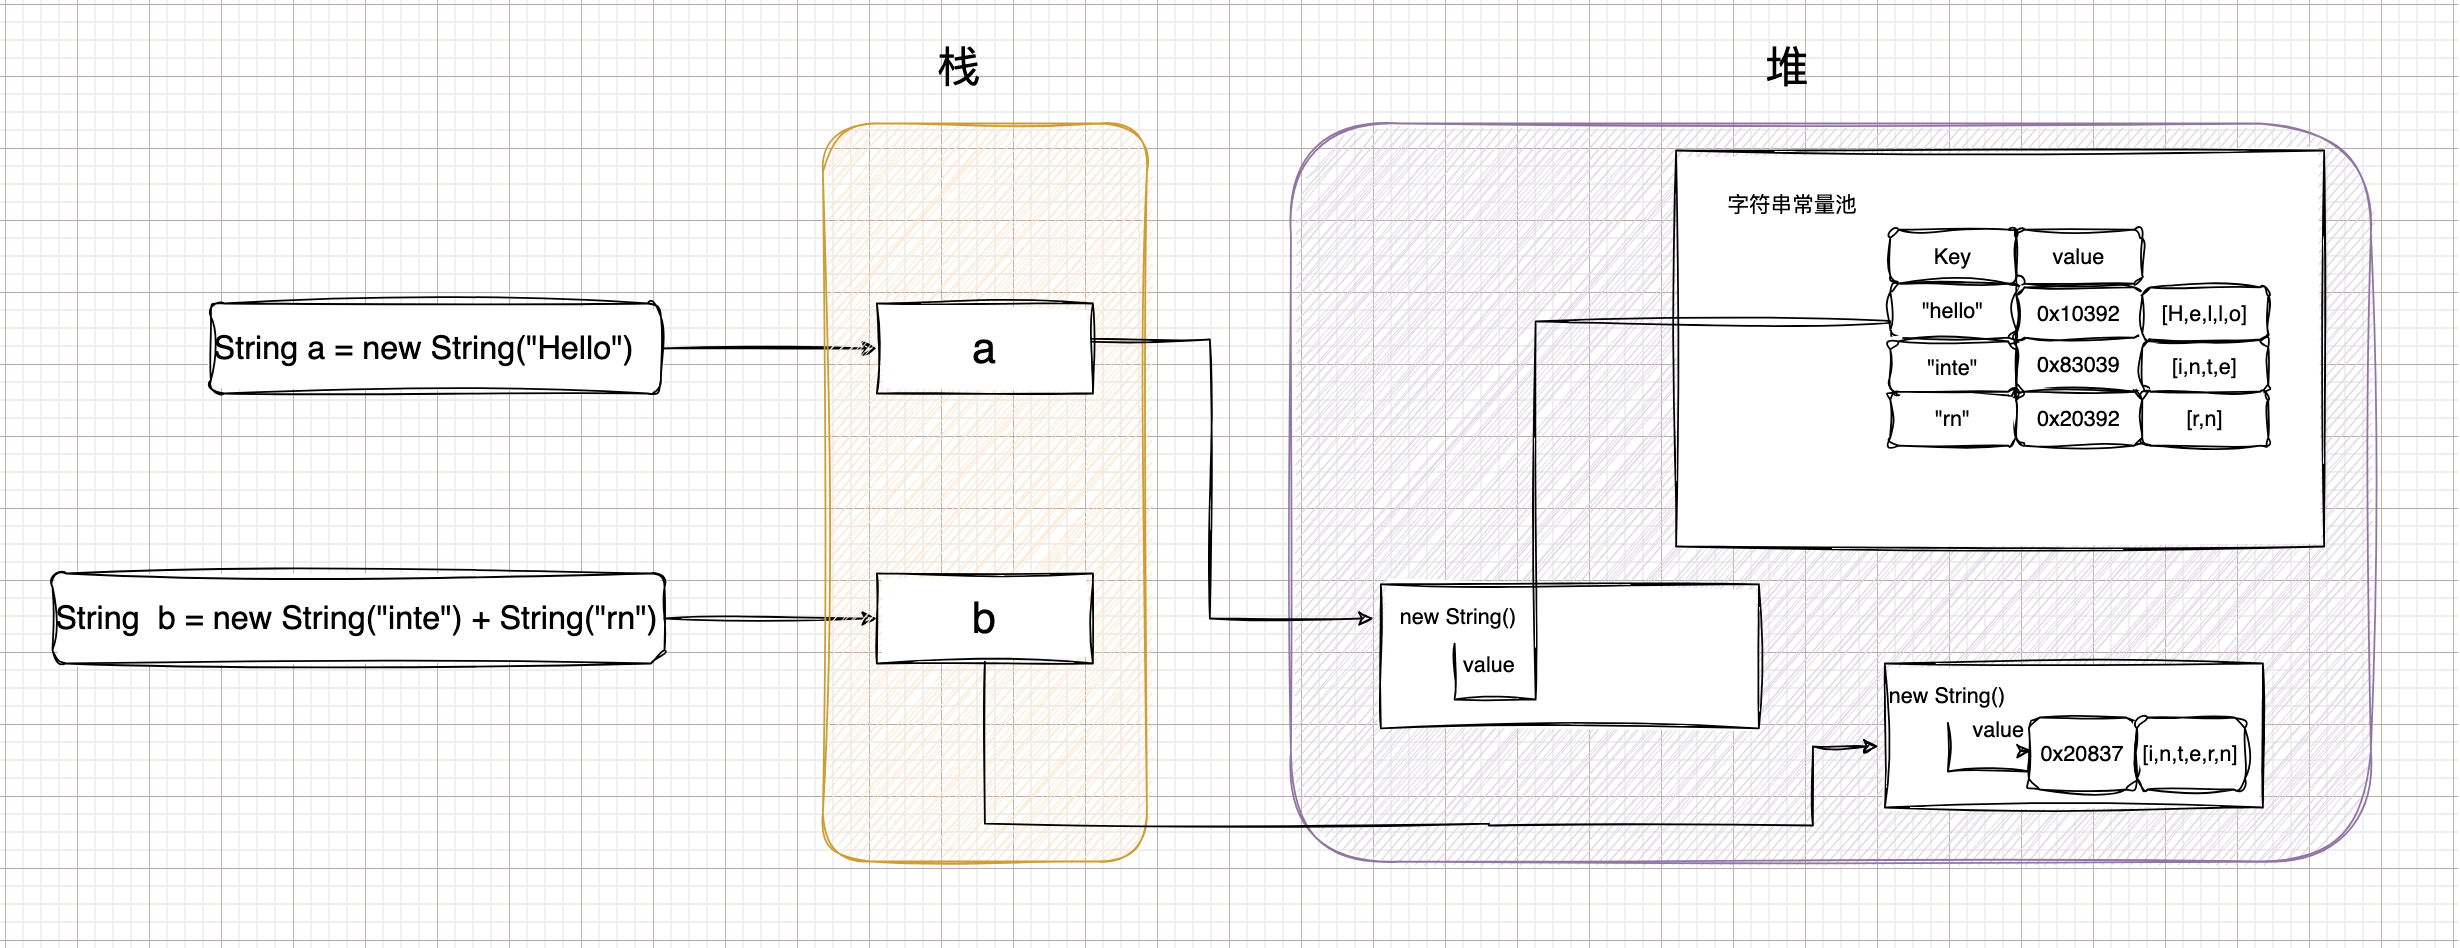
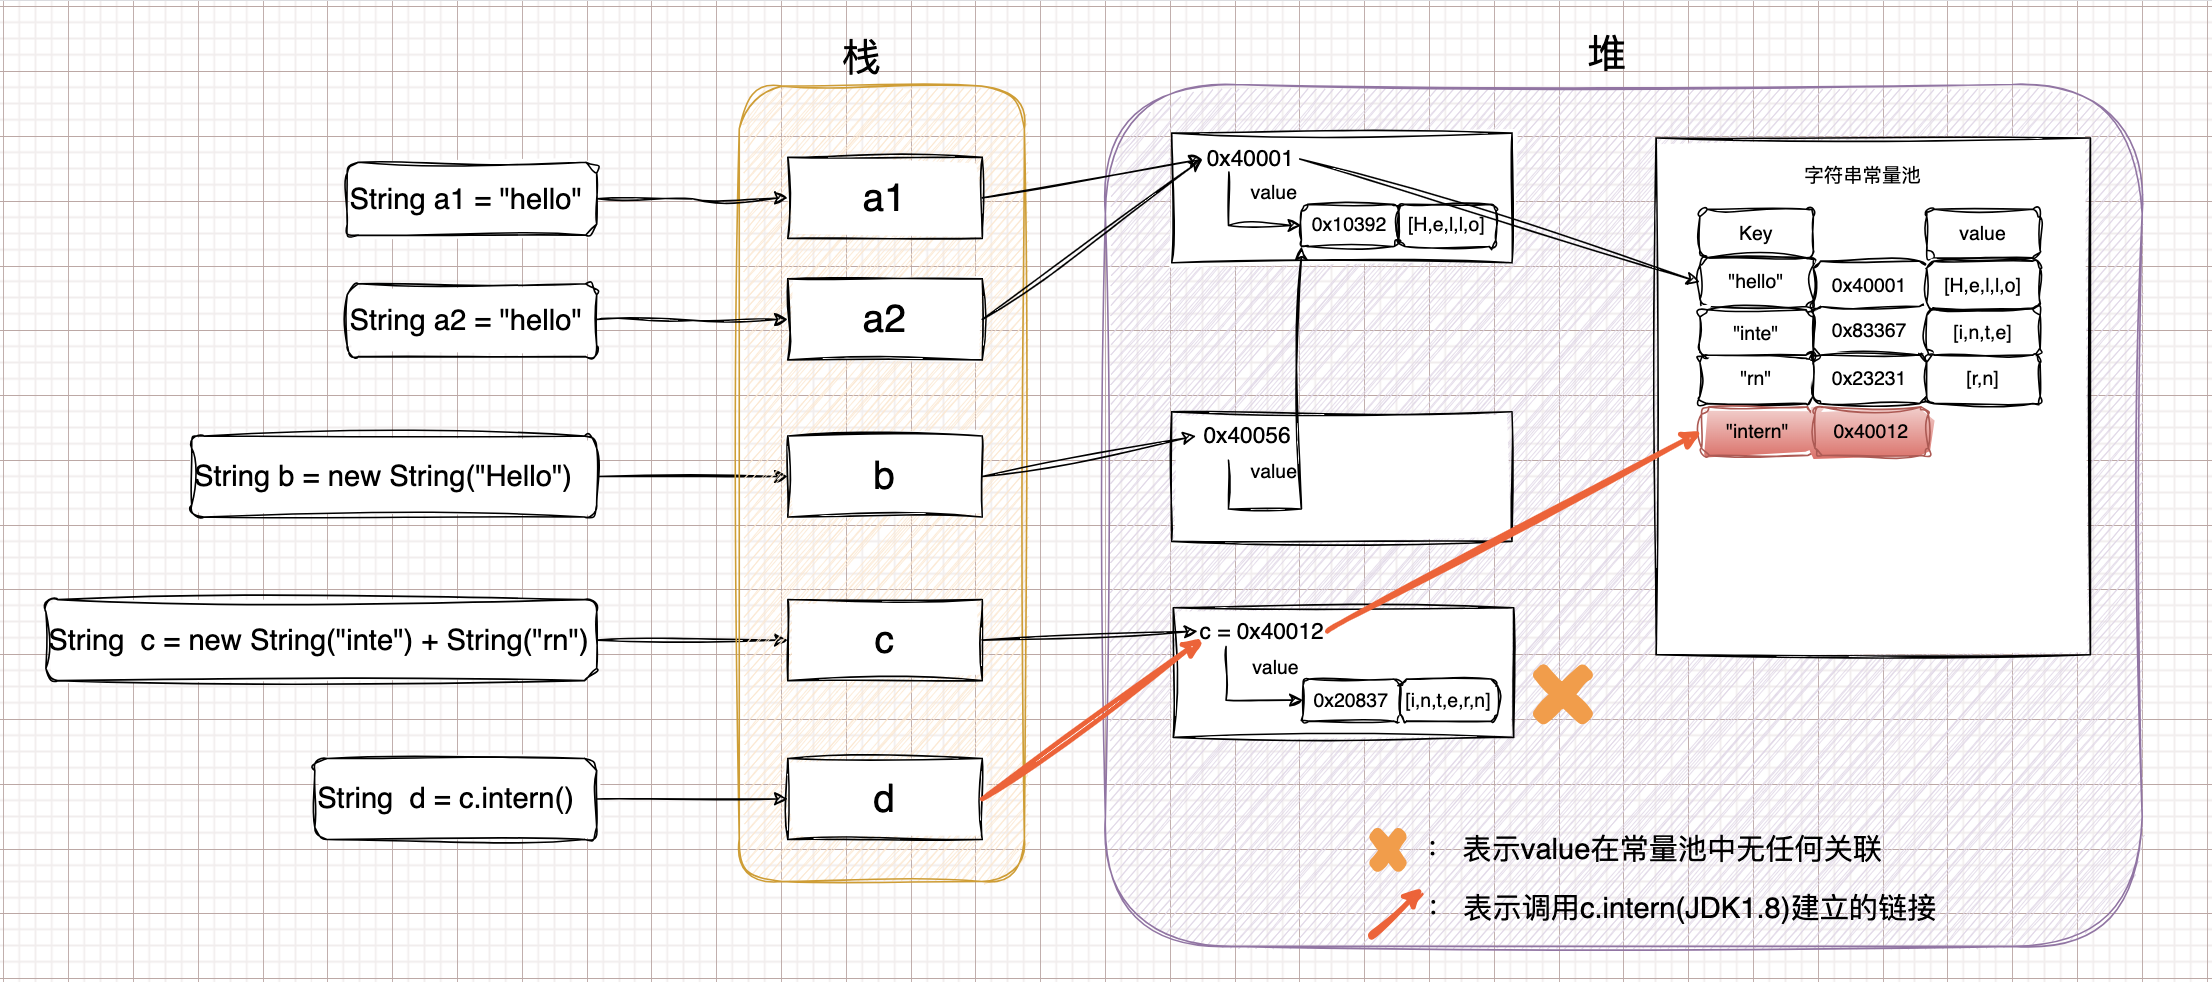
update something

diff --git a/docs/doc/base/string.md b/docs/doc/base/string.md
@@ -2,16 +2,19 @@
 
     + ### 内存布局
 
-        ![](/.images/doc/base/string/string-memory-01.png ':size=99%')
+        ![](/.images/doc/base/string/string-memory-01.png ':size=37%')
+        ![](/.images/doc/base/string/string-memory-02.png ':size=62%')
 
     + ### intern()
 
-        ?> 这个方法表示获取一个字符串对象的值在常量池中的引用。如果常量池中存在，则直接返回引用。如果不存在，JDK1.6的话，会copy String.value 到字符串常量池中，而包含及以上版本的话，会直接将String.value的引用放入到字符串常量池中。另外字符串常量池的实现是[C++ 中的hashtable](https://www.cnblogs.com/mic112/p/15520770.html#字符串常量池)。
+        ?> `String.intern()`方法表示获取一个字符串对象的值在常量池中的引用。如果常量池中存在，则直接返回引用。如果不存在，常量池创建并返回引用。
+        <br><br>不同jdk版本创建并返回引用是有区别的：
+        <br>JDK1.6，不存在则在**永久代字符串常量池**创建`等值字符串`，
+        <br>JDK1.6之后，在**堆区字符串常量池**创建的是`堆中String obj的引用`。[参考1](https://stackoverflow.com/questions/27812666/why-string-intern-behave-differently-in-oracle-jdk-1-7)，[参考2](https://blog.csdn.net/tyyking/article/details/82496901)
+        <br><br>另外字符串常量池的实现是[C++ 中的hashtable](https://www.cnblogs.com/mic112/p/15520770.html#字符串常量池)。
 
         !> `String s = new String("ABC")` 这行单纯代码层面来说，只创建一个对象。如果包含类加载的过程，有可能会创建两个，一个在常量池中，一个在堆里面。堆里面的引用常量池中的value。[参考](https://stackoverflow.com/questions/19672427/string-s-new-stringxyz-how-many-objects-has-been-made-after-this-line-of)
-        <br><br>`String.intern()` 方法首先会在常量池中查找等值字符串，找到了，返回引用。没找到，常量池创建并返回引用。
-        <br>JDK1.6。不存在创建的是等值字符串，之后，创建的是堆中value的引用。[参考](https://blog.csdn.net/tyyking/article/details/82496901)
-
+        
         ```java
         /**
          * Returns a canonical representation for the string object.
@@ -45,18 +48,18 @@
         <!-- tabs:start -->
         ##### **hello**
         ```java
-        // 代码片段1
-        String str2 = new String("str")+new String("01"); // 创建string对象 0x02912。
-        str2.intern(); // jdk1.7及以下。 str2.intern()如果常量池中没有的话，会创建 str2 0x02912。 . 所以 str2.intern() == str2
-        String str1 = "str01"; // 现在常量池中有了，直接返回引用 0x02912。
-        System.out.println(str2==str1); // 所以相等
+        // source: https://blog.csdn.net/tyyking/article/details/82496901
+        String str2 = new String("str") + new String("01");
+        str2.intern(); 
+        String str1 = "str01";
+        System.out.println(str2 == str1);
 
-        // 代码片段2
-        String str2 = new String("str")+new String("01"); // 创建string对象 0x02912。
-        String str1 = "str01"; // 常量池中没有，创建"str01"字符串并返回引用 0xbc0cf
-        str2.intern(); // 常量池中有字符串 ”str01" 所以返回引用 0xbc0cf .所以 str2.intern()== str01 == 0xbc0cf 
-        System.out.println(str2==str1); // 不相等。因为str2 == 0x2912 ,str1 = oxbc0cf
+        // 上述代码在JDK1.6及以后版本表现不同。假设str2的地址为`String@725`
+        // 1.6 调用`str2.intern()`会在永久代字符串常量池中复制等值字符串String@825，然后返回引用String@825。给str1赋值的时候发现字符串常量池有'str01'，则将引用String@825给str1。
+        // >1.6 调用`str2.intern()`会在堆区字符串常量池中放置对象str2的引用String@725，然后返回引用String@725。给str1赋值的时候发现字符串常量池有'str01'，则将引用String@725给str1。
         ```
+        ![](/.images/doc/base/string/string-intern-01.png ':size=99%')
+        ![](/.images/doc/base/string/string-intern-02.png ':size=99%')
         ##### **world**
         ```java
         public class Hello{}

diff --git a/docs/doc/advance/jdk/README.md b/docs/doc/advance/jdk/README.md
@@ -5,6 +5,9 @@
     ?> ~special：macosx[Sonoma]安装特殊版本[1.6.0_65](https://updates.cdn-apple.com/2019/cert/041-88384-20191011-3d8da658-dca4-4a5b-b67c-26e686876403/JavaForOSX.dmg)，oracle没有提供~ 。
     <br>上面的没有源码，[参考](https://stackoverflow.com/questions/4011002/java-eclipse-on-macosx-where-is-the-src-zip) 改用[`Java for OS X 2013-005 Developer Package`](https://developer.apple.com/download/all/?q=java)，对应的JAVA版本为 **1.6.0_65-b14-462.jdk** 。
 
+    !> Please be aware that IntelliJ IDEA 2022.3 won’t support running and testing Java applications that use Java 6. Java 6 reached “end of life” status several years ago
+    <br>对于JDK1.6，可以使用[`IDEA 2022.2`](https://download-cdn.jetbrains.com/idea/ideaIU-2022.2.5.dmg)，[参考](https://intellij-support.jetbrains.com/hc/en-us/community/posts/14203092325906-Which-version-of-Intellij-IDEA-works-with-Java-6-and-how-i-get-it)
+
     + https://mirrors.huaweicloud.com/java/jdk/
     + https://mirrors.huaweicloud.com/openjdk/
     + https://jdk.java.net/
